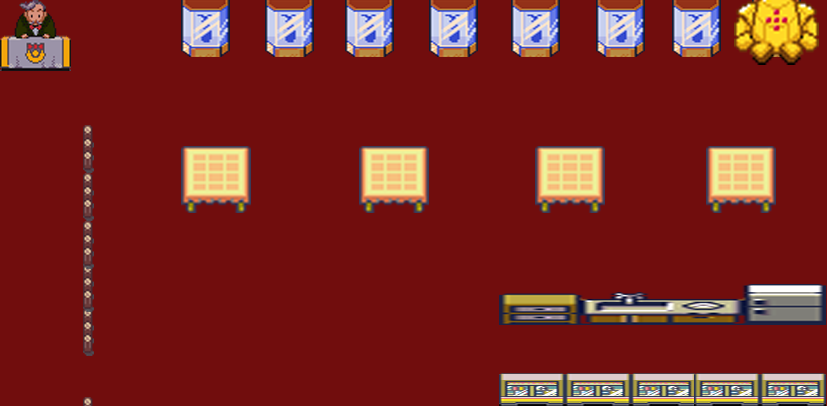
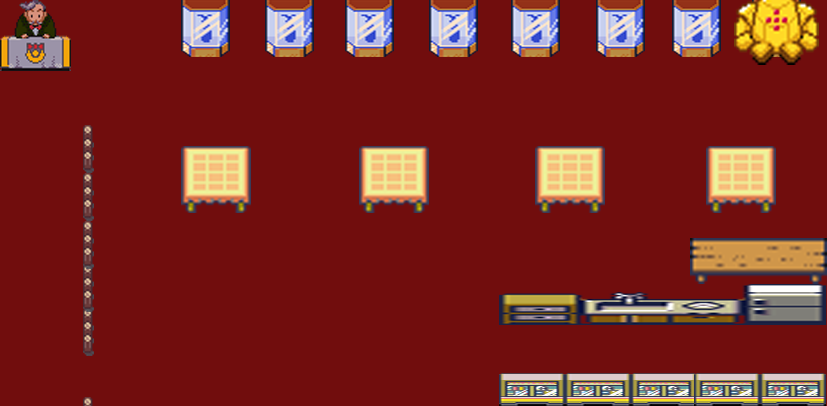
Continuing integraation using assets prior to staack

Changed region(s): [[0.8162, 0.5616, 1.0, 0.7094]]

diff --git a/src/restaurant/huangRestaurant/gui/WaiterGui.java b/src/restaurant/huangRestaurant/gui/WaiterGui.java
@@ -17,10 +17,11 @@ public class WaiterGui implements Gui {
 	private boolean wantsBreak = false;
 	private boolean onBreak = false;
 	private String currentDish;
-    private int xPos = -20, yPos = -20;//default waiter position
-    private int xDestination = -20, yDestination = -20;//default start position
-    private int xHome = 100, yHome = 50;//waiter Home positions
-    private int xCWaitArea = 40, yCWaitArea = 20;//Customer Waiting area.
+	private int xPos = 0, yPos = 450;//default cook position
+	private int xDestination = 0, yDestination = 450;//default start position
+	private int xExit = 0, yExit = 450;//Exit
+    private int xHome = 120, yHome = 30;//waiter Home positions
+    private int xCWaitArea = 120, yCWaitArea = 30;//Customer Waiting area.
     
     private class ServedFood {;
     	String food;
@@ -35,16 +36,16 @@ public class WaiterGui implements Gui {
     	}
     }
     private List<ServedFood>foodOnTable = new ArrayList<ServedFood>();
-    public int xTable = 100;
-    public int yTable = 200;
-    private static final int tableSpawnX = 100;
-	private static final int tableSpawnY = 200;
-	private static final int tableOffSetX = 100;
+    public int xTable = 160;
+    public int yTable = 170;
+    private static final int tableSpawnX = 160;
+	private static final int tableSpawnY = 170;
+	private static final int tableOffSetX = 180;
 	
-	private static final int cookX = 300; 
-	private static final int cookY = 400;
-	private static final int cashierX = 50; 
-	private static final int cashierY = 500;
+	private static final int cookX = 640; 
+	private static final int cookY = 270;
+	private static final int cashierX = 780; 
+	private static final int cashierY = 40;
 
 	//private HostAgent host;
 

diff --git a/src/restaurant/huangRestaurant/gui/CookGui.java b/src/restaurant/huangRestaurant/gui/CookGui.java
@@ -13,11 +13,13 @@ import restaurant.huangRestaurant.HuangCookRole;
 public class CookGui implements Gui {
 	private HuangCookRole agent = null;
 	private String currentDish;
-    private int xPos = 320, yPos = 415;//default waiter position
-    private int xDestination = 320, yDestination = 415;//default start position
-    private int xHome = 320, yHome = 415;//Cook Home positions
-    private int xCookArea = xHome - 40, yCookArea = yHome + 30;//Customer Waiting area.
-    private int xPlateArea = xHome - 40, yPlateArea = yHome -25;
+    private int xPos = 35, yPos = 450;//default cook position
+    private int xDestination = 35, yDestination = 450;//default start position
+    private int xHome = 630, yHome = 360;//Cook Home positions
+    private int xCookArea = xHome + 70, yCookArea = yHome;//Customer Waiting area.
+    private int xPlateArea = xHome + 120, yPlateArea = yHome -80;
+    private int xCashier = 780, yCashier = 40;
+    private int xExit = 0, yExit = 450;//Exit
     public class CookingFood {;
     	String food;
     	int xPos;
@@ -44,8 +46,6 @@ public class CookGui implements Gui {
     }
     private List<PlatedFood> pFood = new ArrayList<PlatedFood>();
     private List<CookingFood> cFood = new ArrayList<CookingFood>();
-    public int xTable = 100;
-    public int yTable = 200;
 	private static final int dishOffSetX = 20;
 	
 
@@ -65,10 +65,6 @@ public class CookGui implements Gui {
             yPos++;
         else if (yPos > yDestination)
             yPos--;
-
-        if (xPos == xDestination && yPos == yDestination & (xDestination == xTable + 20) & (yDestination == yTable - 20)) {
-        	
-        }
     }
 
     public void draw(Graphics2D g) {

diff --git a/src/restaurant/huangRestaurant/gui/CustomerGui.java b/src/restaurant/huangRestaurant/gui/CustomerGui.java
@@ -8,17 +8,18 @@ import java.awt.*;
 public class CustomerGui implements Gui{
 
 	private HuangCustomerRole agent = null;
-	private boolean isPresent = false;
+	private boolean isPresent = true;
 	private boolean isHungry = false;
 
 
-	private int xPos, yPos;
-	private int xDestination, yDestination;
-	private int xWait = 20;
-	private int yWait = 40;
+	private int xPos = 35, yPos = 450;
+	private int xDestination = 35, yDestination = 450;
+	private int xWait = 35;
+	private int yWait = 100;
 	public int currentSpot = 0;
-	private static final int cashierX = 200; 
-	private static final int cashierY = 500;
+	private static final int cashierX = 780; 
+	private static final int cashierY = 40;
+	private int xExit = 0, yExit = 450;//Exit
 	private enum Command {noCommand, GoToSeat, GoToPay, LeaveRestaurant};
 	private Command command=Command.noCommand;
 
@@ -108,7 +109,6 @@ public class CustomerGui implements Gui{
 		yWait = yWait + iterate * 40;
 		yPos = yWait;
 		yDestination = yWait;
-		xWait = 20;
 		xPos = xWait;
 		xDestination = xWait;
 	}
@@ -117,7 +117,6 @@ public class CustomerGui implements Gui{
 		yWait = currentSpot * 40;
 		yPos = yWait;
 		yDestination = yWait;
-		xWait = 20;
 		xPos = xWait;
 		xDestination = xWait;
 	}
